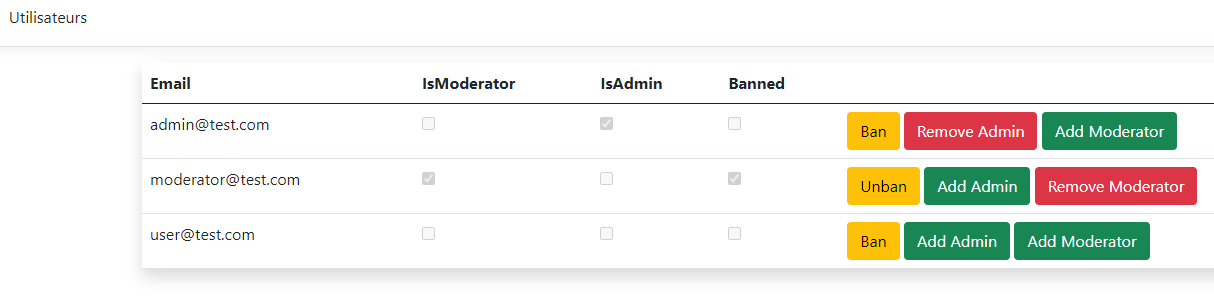
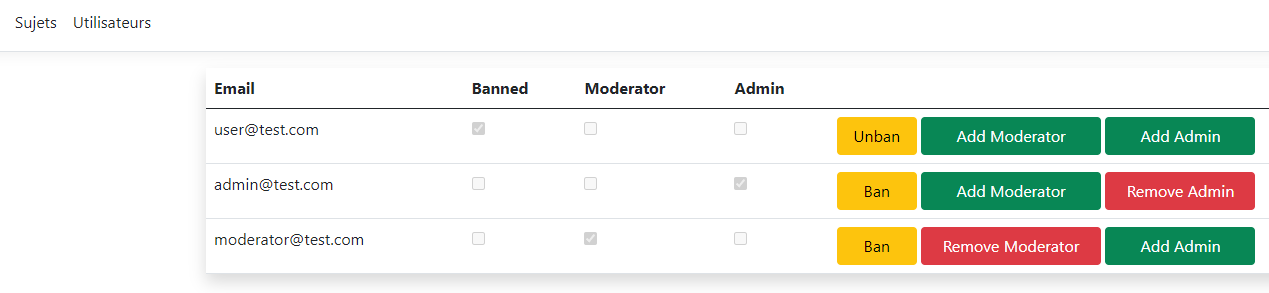
PROGRES Ajout d'instructions pour le TP3

diff --git a/docs/02-tp/03-tp3.md b/docs/02-tp/03-tp3.md
@@ -8,76 +8,79 @@ import CommentCommitPush from '/comment-commit-push.mdx';
 - Vous **DEVEZ** faire au moins les migrations et les commits demandés mais vous pouvez en faire plus sans problème, tant que vous les documentez correctement
 
 A faire pour prof:
-- Ajouter/modifier des unit tests avec Moq
-- Unit tests: Le mock est vraiment limité car il vérifit l'appel, mais ne fournit aucune fonctionnalité...
-**- Vérifier que les bans se font toujours par AJAX**
-**- Vérifier que cacher un message fonctionne aussi par AJAX**
+- **Quoi faire avec le email confirmation?** Le plus simple c'est de le disabler complètement (a voir comment l'app se comporte)
+- **BIEN CLARIFIER CE QU`IL FAUT FAIRE AVEC IdentityUser vs ApplicationUser**
 
 ## Objectif
 
 Le but de ce TP est d'ajouter une gestion d'usagers à une application simple qui permet d'écrire des messages à propos de certains sujets (**Boards**).
 
+Prenez d'abord une minute pour utiliser l'application dans son état actuel et voir que vous pouvez faire:
+- Voir les **sujets** (**Boards**) existants et voir les **messages** de chaque **sujet**.
+- Ajouter un nouveau **sujet**
+- Ajouter un nouveau **message** à l'intérieur d'un **sujet**
+
+On utilise le mot **usager** pour référer à une personne qui utilise l'application.
+On utilise le mot **utilisateur** pour référer à un **usager** qui est connecté avec un **User**.
+
 En plus des **utilisateurs** normaux, vous devrez créer deux **rôles** pour gérer cette application:
 - **Admin**
 - **Moderator**
 
-Déjà fait à l'avance:
-- Création d'un projet MVC
-- Création de la classe Message
-- Création de la classe Board
-- Création d'une première migration qui va créer le DBContext
-- Affichage de boards avec ordre par index
-- Affichage de messages (username et date) [order by timestamp]
-- Seeding de boards et messages
-
-
 ## Mettre en place Identity
-- Ajout des packages pour Identity
-- Ajout d'une classe ApplicationUser qui hérite de IdentityUser
-- Scaffolding de Identity
+- Ajoutez les packages pour **Identity**
+- Ajoutez une classe **ApplicationUser** qui doit hériter de **IdentityUser**
+- Configurez **Identity** dans **Program.cs**
+- Utilisez un DBInitializer pour ajouter les 2 rôles
+- Utilisez un DBInitializer pour ajouter 3 **utilisateurs**: un **admin**, un **moderator** et un utilisateur normal (avec les roles admin et moderator quand nécessaire)
 
 ## Générez les pages Razor Identity
-- Ajouter les pages Razor
-**- Ajout du partial view de login à la page de navigation (Aligner a droite!)**
+- Faites le scaffolding de **Identity** avec les pages Razor
+- Ajoutez la vue partialle de connexion à la bar de navigation du _Layout (Aligné a droite)
 
+:::info
 
-## Créer les liens avec ApplicationUser et faire un Seed
+Pour ce TP nous allons utiliser le comportement par défaut des pages générées qui utilise le email comme username
 
-- Un **utilisateur** peut avoir un ou plusieurs **messages**
-- Modifiez le seed pour ajouter 3 utilisateurs: un administrateur, un modérateur et un utilisateur normal (avec les roles admin et moderator quand nécessaire)
-- Associez les messages déjà existants à vos utilisateurs (chaque message d'un même Board doit être associé à un utilisateur différent)
-- Modifiez la création de message pour qu'elle ne soit faisable que par un utilisateur et l'associé à son message
-- Modifiez la création de sujets (Boards) pour que ce soit uniquement possible par un **moderator**
-- Affichez le nom de l'usager qui a écrit un message dans chaque message à côté de la date (ce nom deviendra clickable)
-
-:::warning
-Seeding du user necessite EmailConfirmed : true pour qu'il soit utilisable sans vérification du courriel.
 :::
 
+## Créer les liens avec ApplicationUser
+
+- Un **utilisateur** peut avoir un ou plusieurs **messages**
+- Un **message** doit avoir un seul **utilisateur**
+- Modifiez la création de **message** pour qu'elle ne soit faisable que par un **utilisateur** et l'associé à son **message** (Attention, vous aurez probablement à effacer les **messages** existants dans votre BD)
+- Modifiez la création de **sujets** (Boards) pour que ce soit uniquement possible par un **moderator**. Il faut ajouter la vérification serveur et cacher l'option de créer un Board pour les utilisateurs qui n'ont pas le droit.
+- Affichez le courriel de l'**utilisateur** qui a écrit un **message** dans chaque **message** à côté de la date (ce courriel deviendra cliquable)
+
+## Ajout de tests unitaires
+- Il existe déjà un projet de tests avec 2 tests
+- Lisez les commentaires dans chacune des fonctions de tests et ajoutez le code nécessaire
+- Note: Il y aura éventuellement un peu plus de travail à faire dans les tests pour supporter l'ajout de la vérification des **utilisateurs** bannis. (Pas besoin d'ajouter des tests en plus, simplement de vérifier que les 2 tests sont toujours fonctionnels)
+
 ## Ajoutez le hard delete
-- Les **admins** et l'auteur d'un message (l'utilisateur associé au message) peuvent effacer un message complètement. Voici à quoi devrait ressembler la vue d'un message par son auteur:
+- Les **admins** et l'**auteur** d'un **message** (l'**utilisateur** associé au **message**) peuvent effacer un message complètement. Voici à quoi devrait ressembler la vue d'un message par son **auteur**:
 
 ![Image Reference](/tps/tp3/propreMessage.png)
 
-- Et voici la vue d'un **Admin** (On va ajouter l'option Cacher très bientôt)
+- Et voici la vue d'un **admin** (On va ajouter l'option Cacher très bientôt)
 
 ![Image Reference](/tps/tp3/messageNormalAdmin.png)
 
-- Il faut donc afficher le message différement pour l'auteur et pour les Admins.
-- Il ne faut pas oublier permettre **uniquement** aux admins et à l'auteur de faire cette action sur le serveur.
+- Il faut donc afficher le message différement pour un **usager**, l'**auteur** ou les **admins**.
+- Il ne faut pas oublier permettre **uniquement** aux **admins** et à l'**auteur** de faire cette action sur le serveur.
 
 ## Ajoutez l'option de cacher un message (soft delete)
-- Les **moderators** et les **admins** peuvent cacher un message qui doi s'afficher comme ceci pour les usagers normaux lorsqu'il est caché:
+- Les **moderators** et les **admins** peuvent cacher un **message** qui doit s'afficher comme ceci pour les **usagers** lorsqu'il est caché:
 
 ![Image Reference](/tps/tp3/messageCache.png)
 
-- Et comme ceci pour les **moderators** qui peuvent cliquer sur Montrer pour l'afficher normalement à nouveau. Pour les **admins** il faut afficher le bouton **Effacer** en plus.
+- Et comme ceci pour les **moderators** qui peuvent cliquer sur Montrer pour l'afficher normalement à nouveau. Pour les **admins** il faut afficher le bouton **Effacer** en plus. (Remarques que les **moderators** et **admins** peuvent voir le message original)
 
 ![Image Reference](/tps/tp3/messageCacheModerateur.png)
 
-![Image Reference](/tps/tp3/messageNormalModerateur.png)
+![Image Reference](/tps/tp3/messageCacheAdmin.png)
 
-- Il faut donc afficher les message différements pour les modérateurs également.
+- Il faut donc afficher les **message** différements pour les **moderators** également.
 - Il ne faut pas oublier de permettre **uniquement** aux **admins** et **moderators** de faire cette action sur le serveur.
 
 
@@ -87,64 +90,69 @@ Seeding du user necessite EmailConfirmed : true pour qu'il soit utilisable sans 
 
 - Cette vue ne doit être accessible que par les **admins**
 - Ajoutez un lien dans la page de navigation
-- Cette vue doit afficher chaque utilisateur avec l'information suivante:
+- Cette vue doit afficher chaque **utilisateur** avec l'information suivante:
     - Email
-    - S'il est admin ou pas
-    - S'il est modérateur ou pas
-    - S'il est banni ou pas
-    - Les administrateurs doivent avoir la possibilité de changer les rôles des utilisateurs (vérification serveur)
-    - Il faut également pouvoir bannir un utilisateur à partir de ce menu
+    - S'il est **banni**
+    - S'il est **admin**
+    - S'il est **moderator**
+    - Les administrateurs doivent avoir la possibilité de changer les **rôles** des **utilisateurs** (vérification serveur)
+    - Il faut également pouvoir bannir un **utilisateur** à partir de ce menu et pour cette fois une action normale suffit (pas besoin d'utiliser AJAX)
+
+## Limitez les actions des **utilisateurs bannis**
+Comme l'application est assez simple et qu'il y a assez peu d'actions, on peut simplement vérifier si un utilisateur est banni avant de lui permettre de faire une action
+- Ajoutez une vérification dans chaque action qui nécessite d'être authentifié
+- Retournez une vue **Unauthorized** si l'**utilisateur** est banni
 
 ## AJAX - Ajoutez une vue qui affiche les détails d'un utilisateur
-- Cette vue est accessible par tout le monde en cliquant sur le courriel du user qui a rédigé un message:
+- Cette vue est accessible par un **usager** en cliquant sur le courriel du user qui a rédigé un message:
 
 ![Image Reference](/tps/tp3/lienVueDetails.png)
 
-- Elle s'affiche ainsi pour les utilisateurs normaux :
+- Elle s'affiche ainsi pour les **usagers** :
 
 ![Image Reference](/tps/tp3/vueDetailsUtilisateur.png)
 
-- Et ainsi pour les **Moderators** et **Admins** :
+- Et ainsi pour les **moderators** et **admins** :
 
 ![Image Reference](/tps/tp3/vueDetailsUtilisateurAdmin.png)
 
-- Cette vue est une fenêtre modal
-- Il faut utiliser un appel AJAX pour obtenir le contenu de cette **vue partielle**
-- Cette vue permet également de bannir un usager pour les **Moderators** et **Admins**
-
-## Ajout de tests unitaires
+- Cette vue doit être une fenêtre modal
+- Vous **devez** utiliser un appel **AJAX** pour obtenir le contenu de cette **vue partielle**
+- Vous **devez** également permettre de bannir un **utilisateur** pour les **moderators** et **admins** et le ban doit également se faire avec un appel **AJAX**
 
 
 ## Les règles de sécurité:
 ### L'ensemble des actions qui peuvent être effectués par les utilisateurs selon leur rôle
 
-- Sans être connecté, un usager peut voir les messages et voir les détails de l'**utilisateur** qui a publié un **Message**.
+- Sans être connecté, un usager peut voir les messages et voir les détails de l'**utilisateur** qui a publié un **message**.
 - Un usager connecté est considéré un **utilisateur**
 - Un **utilisateur** peut envoyer des messages et effacer ses propres **messages** (de façon permanente).
-- Un **moderator** peut voir la liste des **utilisateurs**.
 - Un **moderator** peut créer une nouveau **board**.
 - Un **moderator** peut **cacher** un **message** (soft delete) ou le réafficher.
-    Lorsqu'un **message** est **caché**, il n'est plus visible sauf par des **utilisateurs** avec un rôle **Admin** ou **Moderator** qui peuvent également le réafficher. [Pas de confirmation]
-- **Moderator** peut bannir un usager, sauf si l'utilisateur a un rôle **Admin** ou **Moderator**.
-- **Admin** peut tout faire ce que **moderator** peut faire, incluant **cacher** un **message**, mais aussi l'**effacer** de façon permanente comme si c'était l'**utilisateur** qui a écrit le **message**. Il peut **bannir** un utilisateur et ce peu importe le **Role** de l'**utilisateur**.
-- **Admin** peut donner les droits **Moderator** et **Admin** ou les retirer.
+    Lorsqu'un **message** est **caché**, il n'est plus visible sauf par des **utilisateurs** avec un rôle **admin** ou **moderator** qui peuvent également le réafficher. [Pas de confirmation]
+- **Moderator** peut bannir un usager, sauf si l'utilisateur a un rôle **admin** ou **moderator**.
+- Un **admin** peut tout faire ce que **moderator** peut faire, incluant **cacher** un **message**, mais aussi l'**effacer** de façon permanente comme si c'était l'**utilisateur** qui avait écrit le **message**.
+- Un **admin** peut **bannir** un utilisateur et ce peu importe le **role** de l'**utilisateur**.
+- Un **admin** peut voir la liste des **utilisateurs**.
+- Un **admin** peut donner les droits **moderator** et **admin** ou les retirer aux utilisateurs.
 - Protection contre les erreurs. Un **utilisateur** ne peut pas se bannir lui même et il ne peut pas se retirer les droits **admin**! (pour faire simple, on peut dire qu'un **utilisateur** ne peut pas modifier ses propres **roles**)
 - Un **utilisateur** **banni** ne peut faire aucune action qu'un **utilisateur** peut faire normalement (Il n'y a que les fonctions qui sont accessibles sans connection qui restent accessible)
-- Il n'est pas interdit qu'un utilisateur soit à la fois un **Moderator** et un **Admin**, mais si c'est le cas, il doit se comporter de la même façon qu'un **Admin**
-
+- Il n'est pas interdit qu'un utilisateur soit à la fois un **moderator** et un **admin**, même si ce n'est pas très utile d'être **moderator** lorsque l'on est **admin**.
 
 
 ## Grille de correction
 
 | Tâche | Nb Points |
 | :--- | :----: |
-| Mettre en place Identity et générez les pages Razor Identity | 1 |
+| Mettre en place Identity et générez les pages Razor Identity | 2 |
 | Créer les liens avec ApplicationUser et faire un Seed | 3 |
-| Ajoutez le hard delete | 2 |
-| Ajoutez l'option de cacher un message | 3 |
+| Tests unitaires | 2 |
+| Ajoutez le hard delete | 1 |
+| Ajoutez l'option de cacher un message | 2 |
 | Ajoutez une vue qui permet de voir les utilisateurs | 3 |
-| Ajoutez une vue qui affiche les détails d'un utilisateur | 2 |
-| Tests unitaires | 1 |
+| Ajoutez une vue qui affiche les détails d'un utilisateur | 3 |
+| Limitez les actions des utilisateurs bannis | 1 |
 | **Total** | **/15** |
+**CORRIGER LE TOTAL**
 
 Notes: les règles de sécurité ne sont pas évalués séparément, mais avec la section avec laquelle elles sont reliées.
